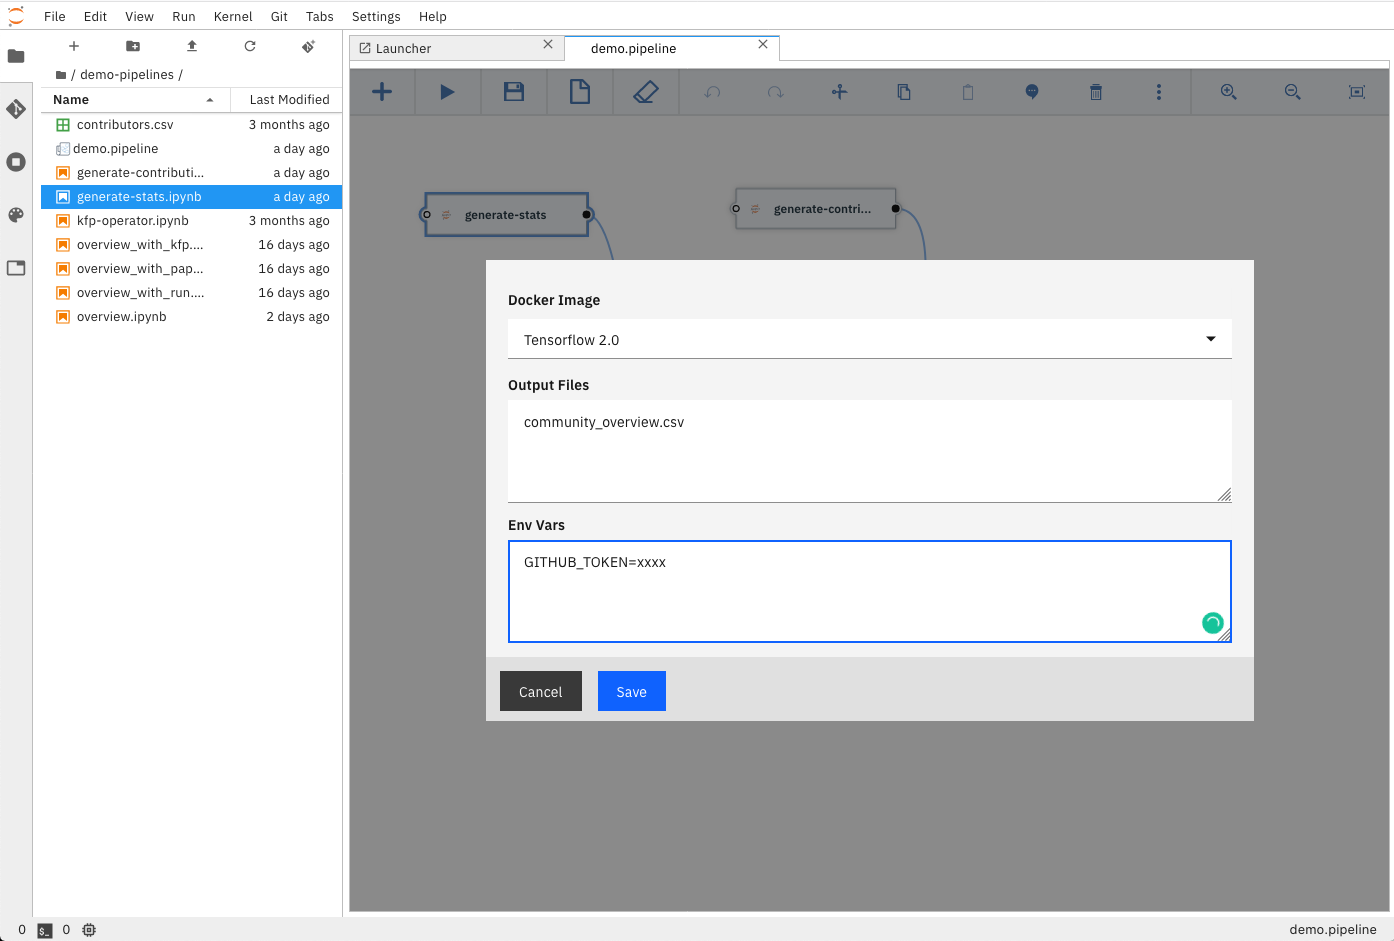
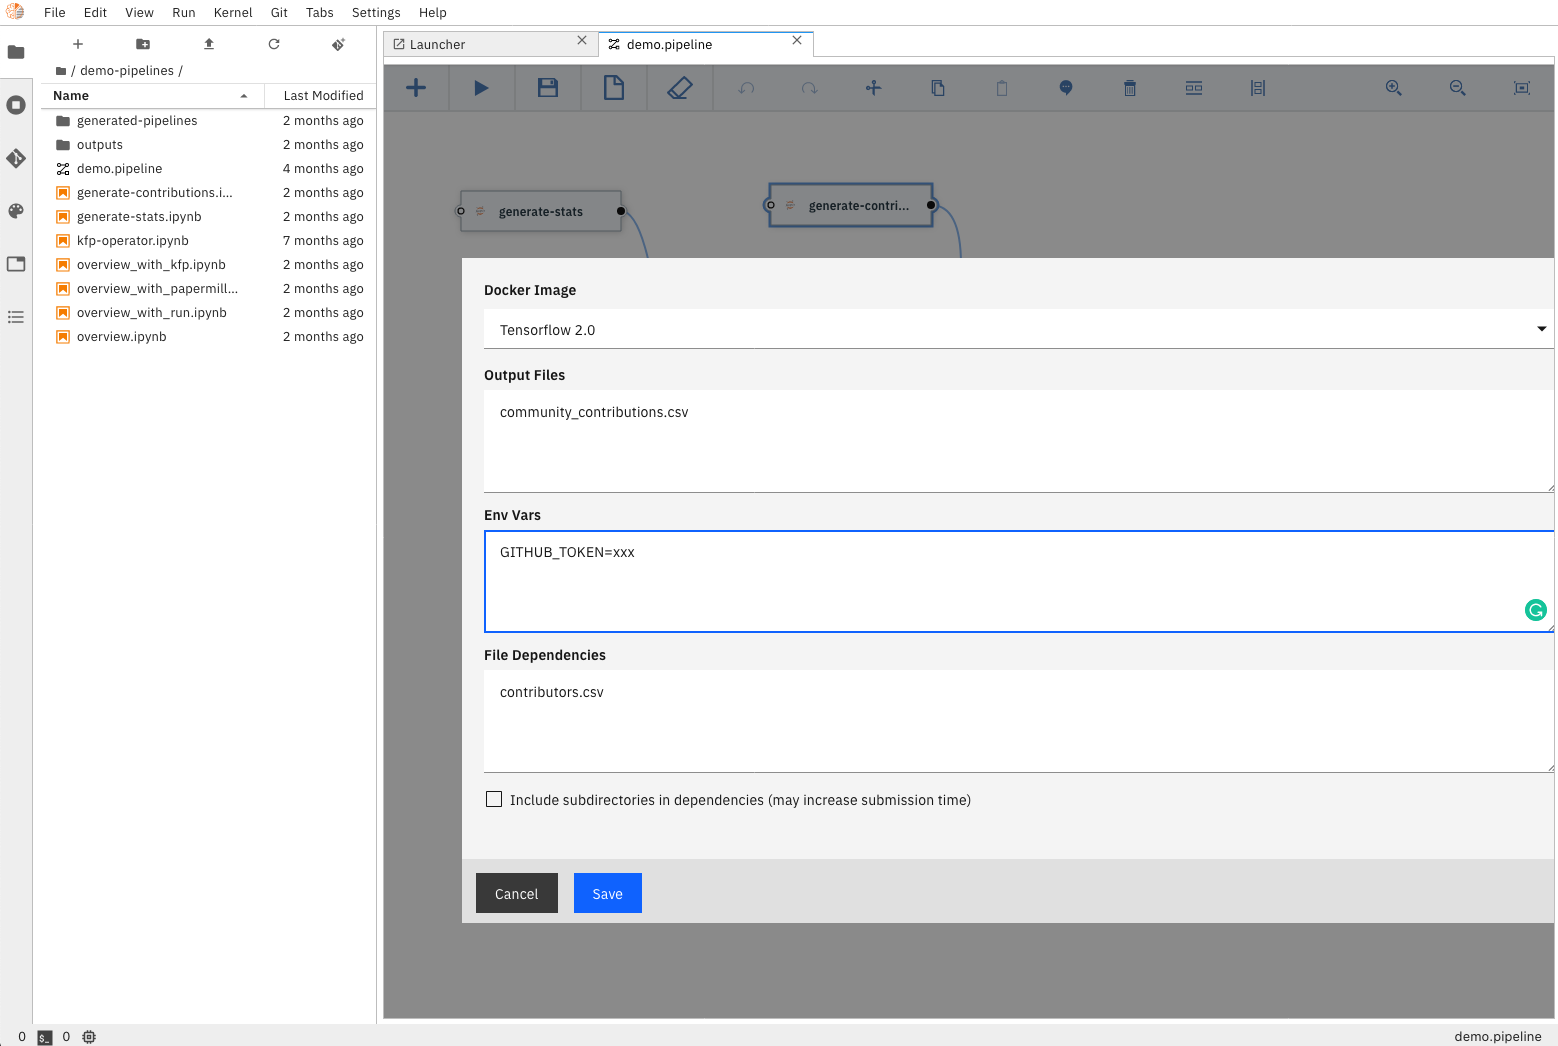
Notebook pipeline design documentation

Changed region(s): [[0.0, 0.0, 1.0, 1.0], [0.0, 0.9862, 0.0925, 1.0]]

diff --git a/docs/dev/pipelines.md b/docs/dev/pipelines.md
@@ -1,0 +1,203 @@
+<!--
+{% comment %}
+Copyright 2018-2020 IBM Corporation
+
+Licensed under the Apache License, Version 2.0 (the "License");
+you may not use this file except in compliance with the License.
+You may obtain a copy of the License at
+
+http://www.apache.org/licenses/LICENSE-2.0
+
+Unless required by applicable law or agreed to in writing, software
+distributed under the License is distributed on an "AS IS" BASIS,
+WITHOUT WARRANTIES OR CONDITIONS OF ANY KIND, either express or implied.
+See the License for the specific language governing permissions and
+limitations under the License.
+{% endcomment %}
+-->
+
+# Elyra Notebook Pipelines
+
+Elyra utilizes its [canvas component](https://github.com/elyra-ai/canvas) to enable assembling
+multiple notebooks as a workflow.
+Elyra provides a visual editor for building Notebook-based AI pipelines, simplifying the conversion
+of multiple notebooks into batch jobs or workflows.  By leveraging cloud-based resources to run their
+experiments faster, data scientists, machine learning engineers and AI developers are then more productive,
+allowing them to spend their time utilizing their technical skills.
+
+![Notebook Pipeline Editor](../source/images/pipeline-editor.png)
+
+Each pipeline node, which in this case represents a Notebook, provides a menu that provides access to
+opening the notebook file directly in the **Notebook Editor** 
+
+![Notebook Pipeline Editor properties menu](../source/images/pipeline-editor-properties-menu.png)
+
+The properties menu also enables users to set additional properties related to running this notebook
+ (e.g. Environment Variables, File Dependencies, etc)
+
+![Notebook Pipeline Editor properties](../source/images/pipeline-editor-properties.png)
+
+## Pipeline definition
+
+Below is a json representation of the pipeline that is generated by the **Pipeline Editor**. 
+
+The pipeline is then submitted to the **Elyra Scheduler** which parses, properly package and then
+submit to the chosen target runtime (e.g. Kubeflow Pipelines).
+
+For more details on the **pipeline json definition** see it's [json schema](https://github.com/elyra-ai/pipeline-schemas/blob/master/common-pipeline/pipeline-flow/pipeline-flow-v3-schema.json)
+ 
+### Pipeline definition json example 
+
+```json
+{
+	"doc_type": "pipeline",
+	"version": "3.0",
+	"json_schema": "http://api.dataplatform.ibm.com/schemas/common-pipeline/pipeline-flow/pipeline-flow-v3-schema.json",
+	"id": "582f2dd2-b329-4bfd-8326-3e0dc8c69744",
+	"primary_pipeline": "f757f14a-4494-46b5-bb27-aeaa8a065477",
+	"pipelines": [{
+		"id": "f757f14a-4494-46b5-bb27-aeaa8a065477",
+		"nodes": [{
+			"id": "db9f3f5b-b2e3-4824-aadd-c1c6bf652534",
+			"type": "execution_node",
+			"app_data": {
+				"artifact": "demo-pipelines/generate-contributions.ipynb",
+				"image": "tensorflow/tensorflow:2.0.0-py3",
+				"outputs": ["community_contributions.csv"],
+				"vars": ["GITHUB_TOKEN=xxxx"],
+				"dependencies": ["contributors.csv"],
+				"ui_data": {
+					"label": "generate-contributions",
+					"x_pos": 387,
+					"y_pos": 73,
+					"description": "Notebook file"
+				}
+			},
+			"inputs": [{
+				"id": "inPort",
+				"app_data": {
+					"ui_data": {
+						"cardinality": {
+							"min": 0,
+							"max": 1
+						},
+						"label": "Input Port"
+					}
+				}
+			}],
+			"outputs": [{
+				"id": "outPort",
+				"app_data": {
+					"ui_data": {
+						"cardinality": {
+							"min": 0,
+							"max": -1
+						},
+						"label": "Output Port"
+					}
+				}
+			}]
+		}, {
+			"id": "f6584209-6f22-434f-9820-41327b6c749d",
+			"type": "execution_node",
+			"app_data": {
+				"artifact": "demo-pipelines/generate-stats.ipynb",
+				"image": "tensorflow/tensorflow:2.0.0-py3",
+				"outputs": ["community_stats.csv"],
+				"vars": ["GITHUB_TOKEN=xxxx"],
+				"dependencies": ["contributors.csv"],
+				"ui_data": {
+					"label": "generate-stats",
+					"x_pos": 77,
+					"y_pos": 79,
+					"description": "Notebook file"
+				}
+			},
+			"inputs": [{
+				"id": "inPort",
+				"app_data": {
+					"ui_data": {
+						"label": ""
+					}
+				}
+			}],
+			"outputs": [{
+				"id": "outPort",
+				"app_data": {
+					"ui_data": {
+						"label": ""
+					}
+				}
+			}]
+		}, {
+			"id": "079c0e12-eb5f-4fcc-983b-09e011869fee",
+			"type": "execution_node",
+			"app_data": {
+				"artifact": "demo-pipelines/overview.ipynb",
+				"image": "tensorflow/tensorflow:1.12.3-py3",
+				"ui_data": {
+					"label": "overview",
+					"x_pos": 318,
+					"y_pos": 312,
+					"description": "Notebook file"
+				}
+			},
+			"inputs": [{
+				"id": "inPort",
+				"app_data": {
+					"ui_data": {
+						"label": ""
+					}
+				},
+				"links": [{
+					"node_id_ref": "db9f3f5b-b2e3-4824-aadd-c1c6bf652534",
+					"port_id_ref": "outPort"
+				}, {
+					"node_id_ref": "f6584209-6f22-434f-9820-41327b6c749d",
+					"port_id_ref": "outPort"
+				}]
+			}],
+			"outputs": [{
+				"id": "outPort",
+				"app_data": {
+					"ui_data": {
+						"label": ""
+					}
+				}
+			}]
+		}],
+		"app_data": {
+			"ui_data": {
+				"comments": []
+			},
+			"title": "pipeline-title",
+			"runtime": "kfp",
+			"runtime-config": "kfp-yukked1"
+		},
+		"runtime_ref": ""
+	}],
+	"schemas": []
+}
+```
+
+## Pipeline processor design
+
+Elyra implements an extensible **pipeline processor engine**, which enables the addition of new processors utilizing
+a service discovery mechanism.
+
+![Notebook Pipeline Editor](../source/images/pipeline-class-hierarchy.png)
+
+
+### Registering new pipeline processor
+
+New processors, that properly implements the **Pipeline Processor** service definition can be discovered
+by the runtime using **entry_points** defined in the **setup.py** file (either from Elyra or in the package
+where the processor is being packeged) 
+
+```python
+    entry_points={
+        'elyra.pipeline.processors': [
+            'kfp = elyra.pipeline.processor_kfp:KfpPipelineProcessor'
+        ]
+    },
+```
